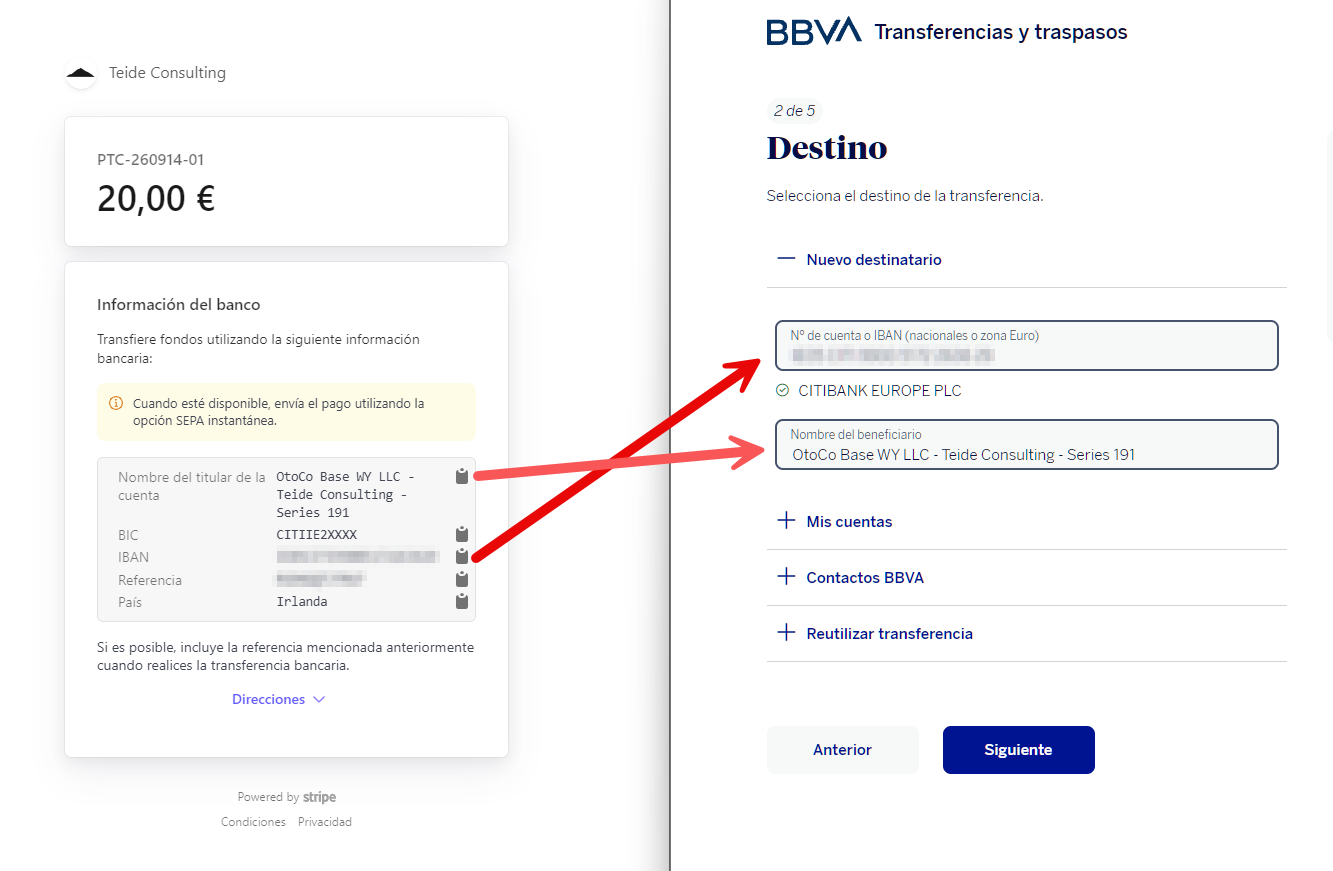
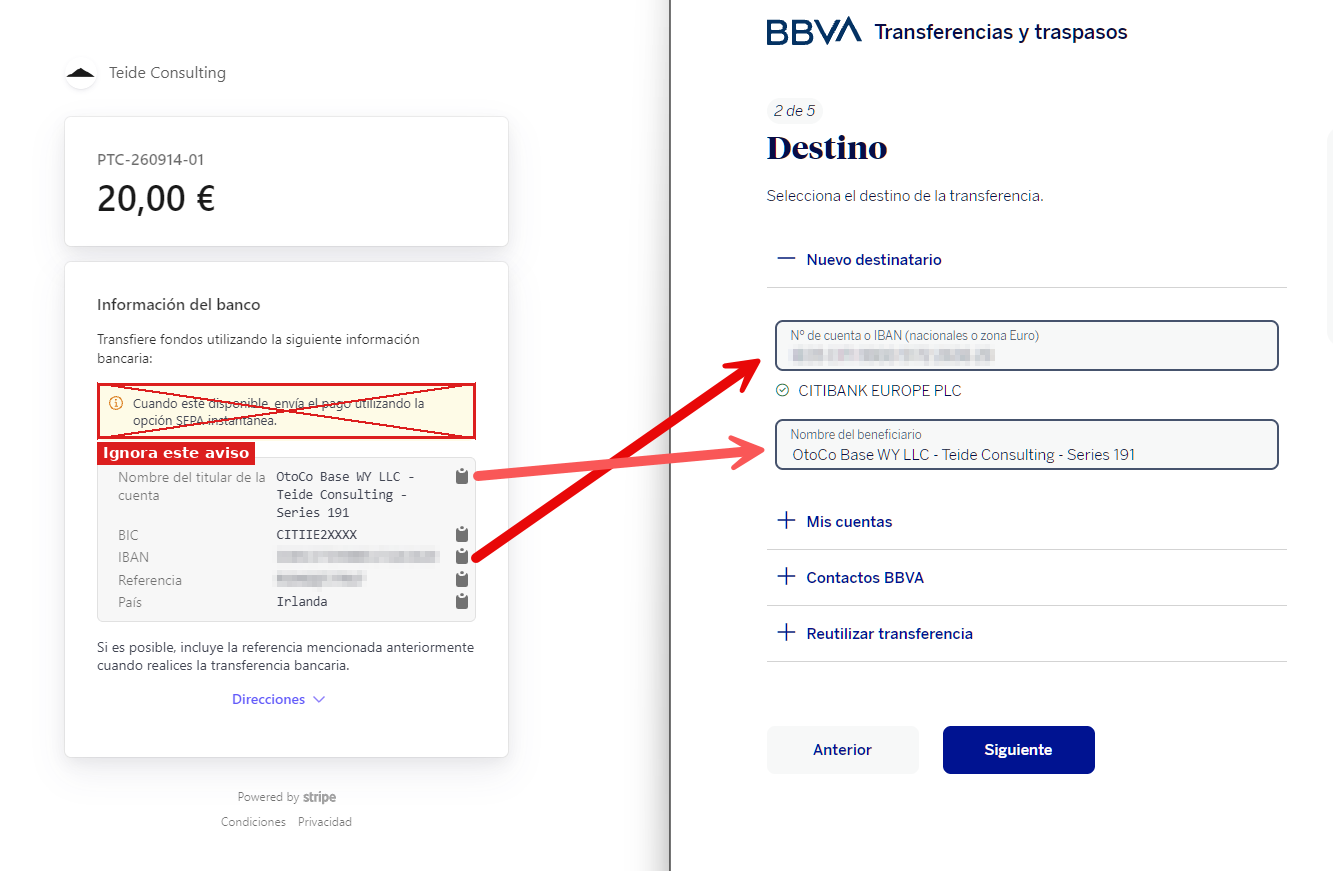
Payment page: quick summary, Stripe notice warning and lightbox
- Add "Si tienes prisa" summary before step 1
- Warn that Stripe's instant SEPA notice must be ignored
- Replace screenshots with versions that cross out that notice
- Open screenshots in a <dialog> lightbox (click outside, X or Escape
  to close); links still open the image if <dialog> is unsupported

Changed region(s): [[0.0615, 0.434, 0.3691, 0.558]]

diff --git a/pagar-por-transferencia/index.html b/pagar-por-transferencia/index.html
@@ -148,6 +148,26 @@
       font-size: 1.125rem !important;
     }
 
+    .quick {
+      background: var(--color-accent-light);
+      border-radius: 20px;
+      padding: 2rem 2.25rem;
+      margin-bottom: 2.5rem;
+    }
+
+    .quick h2 {
+      font-family: var(--font-display);
+      font-size: clamp(1.5rem, 3vw, 2rem);
+      line-height: 1.2;
+      letter-spacing: -0.02em;
+      font-weight: 400;
+      margin-bottom: 1rem;
+    }
+
+    .guide .quick p { color: var(--color-text); }
+
+    .quick p:last-child { margin-bottom: 0; }
+
     .step {
       margin-top: 4rem;
       padding-top: 3rem;
@@ -180,12 +200,72 @@
       box-shadow: 0 8px 30px rgba(0,0,0,0.04);
     }
 
+    .shot a {
+      display: block;
+      cursor: zoom-in;
+    }
+
     .shot img {
       display: block;
       width: 100%;
       height: auto;
       border-radius: 10px;
     }
+
+    /* ── LIGHTBOX ── */
+    html.lightbox-open { overflow: hidden; }
+
+    .lightbox {
+      width: 100%;
+      height: 100%;
+      max-width: none;
+      max-height: none;
+      margin: 0;
+      padding: 4.5rem 2rem 2rem;
+      border: 0;
+      background: rgba(26, 26, 26, 0.94);
+      overflow: auto;
+    }
+
+    .lightbox[open] {
+      display: flex;
+      align-items: center;
+      justify-content: center;
+    }
+
+    .lightbox::backdrop { background: rgba(26, 26, 26, 0.6); }
+
+    .lightbox-img {
+      display: block;
+      max-width: 100%;
+      max-height: 100%;
+      width: auto;
+      height: auto;
+      border-radius: 10px;
+      background: var(--color-surface);
+      box-shadow: 0 20px 60px rgba(0,0,0,0.4);
+    }
+
+    .lightbox-close {
+      position: fixed;
+      top: 1rem;
+      right: 1rem;
+      width: 44px;
+      height: 44px;
+      border: 0;
+      border-radius: 50%;
+      background: var(--color-surface);
+      color: var(--color-text);
+      display: flex;
+      align-items: center;
+      justify-content: center;
+      cursor: pointer;
+      transition: background 0.2s, color 0.2s;
+    }
+
+    .lightbox-close:hover { background: var(--color-accent); color: #fff; }
+
+    .lightbox-close:focus-visible { outline: 2px solid var(--color-accent-light); outline-offset: 3px; }
 
     .callout {
       background: var(--color-surface);
@@ -291,6 +371,12 @@
 
       .shot img { border-radius: 8px; }
 
+      .quick { padding: 1.5rem; border-radius: 16px; }
+
+      .lightbox { padding: 4.5rem 0.5rem 1.5rem; }
+
+      .lightbox-img { width: 100%; max-height: none; border-radius: 6px; }
+
       .after { padding: 2rem 1.5rem; }
 
       .footer-inner { flex-direction: column; text-align: center; }
@@ -317,6 +403,12 @@
     <p class="section-label">Pago de presupuestos</p>
     <h1>Cómo pagar por transferencia</h1>
 
+    <section class="quick">
+      <h2>Si tienes prisa, esto es lo único que tienes que hacer</h2>
+      <p>Abre el enlace de pago del presupuesto y copia y pega en tu banco los datos tal cual aparecen: el IBAN y el titular como destinatario, el importe, y la referencia en el concepto. Elige la transferencia normal en euros, la ordinaria de toda la vida (ni inmediata ni internacional). Ya está: llega al día hábil siguiente y no tienes que avisarnos.</p>
+      <p>Si algo te falla o quieres verlo con más detalle, abajo tienes el proceso paso a paso con capturas de pantalla.</p>
+    </section>
+
     <p class="lead">Al abrir el enlace de pago del presupuesto verás una tarjeta con los datos bancarios: <strong>titular de la cuenta, BIC, IBAN, referencia y país</strong>. Cada enlace tiene su propio IBAN y su propia referencia: usa siempre los de tu enlace, no los de estas capturas.</p>
 
     <p>La transferencia se hace desde tu banco de siempre. Solo hay tres cosas que hacer bien.</p>
@@ -327,7 +419,7 @@
       <h2>Destinatario: copia el IBAN y el titular tal cual</h2>
       <p>En «nuevo destinatario» pega el IBAN y el nombre del titular exactamente como aparecen en el enlace de pago. El titular es un nombre largo (<code>OtoCo Base WY LLC - Teide Consulting - Series 191</code>): es correcto, no lo acortes ni lo «arregles». La cuenta es irlandesa (Citibank Europe), eso también es normal.</p>
       <figure class="shot">
-        <a href="/pagar-por-transferencia/paso-1-destino.png"><img src="/pagar-por-transferencia/paso-1-destino.png" width="1333" height="871" loading="lazy" alt="A la izquierda, la tarjeta de datos bancarios del enlace de pago; a la derecha, la pantalla «Destino» de BBVA con el IBAN y el nombre del beneficiario copiados de la tarjeta."></a>
+        <a href="/pagar-por-transferencia/paso-1-destino.png"><img src="/pagar-por-transferencia/paso-1-destino.png" width="1333" height="871" loading="lazy" alt="A la izquierda, la tarjeta de datos bancarios del enlace de pago; a la derecha, la pantalla «Destino» de BBVA con el IBAN y el nombre del beneficiario copiados de la tarjeta. El aviso amarillo de Stripe sobre SEPA instantánea aparece tachado."></a>
       </figure>
     </section>
 
@@ -337,7 +429,7 @@
       <h2>Importe y concepto: pon la referencia en el concepto</h2>
       <p>Escribe el importe del presupuesto y, en el campo «concepto», pega la <strong>referencia</strong> que te da el enlace de pago. Con esa referencia el pago se identifica solo y no hace falta que nos avises.</p>
       <figure class="shot">
-        <a href="/pagar-por-transferencia/paso-2-importe-concepto.png"><img src="/pagar-por-transferencia/paso-2-importe-concepto.png" width="1252" height="772" loading="lazy" alt="Pantalla «Importe y concepto» de BBVA: el importe del presupuesto en el campo de importe y la referencia del enlace de pago en el campo concepto."></a>
+        <a href="/pagar-por-transferencia/paso-2-importe-concepto.png"><img src="/pagar-por-transferencia/paso-2-importe-concepto.png" width="1252" height="772" loading="lazy" alt="Pantalla «Importe y concepto» de BBVA: el importe del presupuesto en el campo de importe y la referencia del enlace de pago en el campo concepto. El aviso amarillo de Stripe sobre SEPA instantánea aparece tachado."></a>
       </figure>
     </section>
 
@@ -349,12 +441,13 @@
 
       <div class="callout">
         <p><strong>Ojo: no elijas «transferencia internacional».</strong> Aunque la cuenta sea irlandesa, está en la zona euro: se paga con la transferencia normal en euros, la misma que usas para pagar a cualquier empresa española. La opción «internacional» de tu banco es para pagos fuera de la UE y no es la que toca.</p>
+        <p>La tarjeta de Stripe muestra un aviso amarillo recomendando «SEPA instantánea». Ignóralo: es un texto genérico de Stripe y con esta cuenta la instantánea no funciona. Elige siempre la ordinaria.</p>
       </div>
 
       <p><em>¿Pagas desde fuera de la zona euro?</em> Escríbenos a <a href="mailto:info@teideconsulting.com">info@teideconsulting.com</a> antes de hacer nada y te indicamos la forma de pago adecuada.</p>
 
       <figure class="shot">
-        <a href="/pagar-por-transferencia/paso-3-cuando.png"><img src="/pagar-por-transferencia/paso-3-cuando.png" width="1753" height="880" loading="lazy" alt="Pantalla «Cuándo» de BBVA con la opción «Puntual» seleccionada en lugar de «Inmediata»."></a>
+        <a href="/pagar-por-transferencia/paso-3-cuando.png"><img src="/pagar-por-transferencia/paso-3-cuando.png" width="1753" height="880" loading="lazy" alt="Pantalla «Cuándo» de BBVA con la opción «Puntual» seleccionada en lugar de «Inmediata». El aviso amarillo de Stripe sobre SEPA instantánea aparece tachado."></a>
       </figure>
     </section>
 
@@ -377,5 +470,46 @@
       </div>
     </div>
   </footer>
+
+  <!-- LIGHTBOX -->
+  <dialog class="lightbox" id="lightbox" aria-label="Captura ampliada">
+    <button type="button" class="lightbox-close" aria-label="Cerrar">
+      <svg width="20" height="20" fill="none" viewBox="0 0 24 24" stroke="currentColor" stroke-width="2"><path stroke-linecap="round" d="M6 6l12 12M18 6L6 18"/></svg>
+    </button>
+    <img class="lightbox-img" alt="">
+  </dialog>
+
+  <script>
+    (function () {
+      var dialog = document.getElementById('lightbox');
+      // Sin soporte de <dialog>, los enlaces abren la imagen como antes.
+      if (typeof dialog.showModal !== 'function') return;
+
+      var img = dialog.querySelector('.lightbox-img');
+      var opener = null;
+
+      document.querySelectorAll('.shot a').forEach(function (link) {
+        link.addEventListener('click', function (e) {
+          e.preventDefault();
+          opener = link;
+          img.src = link.getAttribute('href');
+          img.alt = link.querySelector('img').alt;
+          document.documentElement.classList.add('lightbox-open');
+          dialog.showModal();
+        });
+      });
+
+      // Cierra al pulsar fuera de la imagen o en la X; Escape lo gestiona <dialog>.
+      dialog.addEventListener('click', function (e) {
+        if (e.target !== img) dialog.close();
+      });
+
+      dialog.addEventListener('close', function () {
+        document.documentElement.classList.remove('lightbox-open');
+        img.removeAttribute('src');
+        if (opener) opener.focus();
+      });
+    })();
+  </script>
 </body>
 </html>
